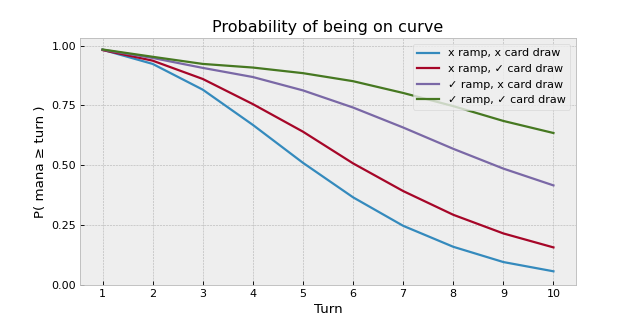
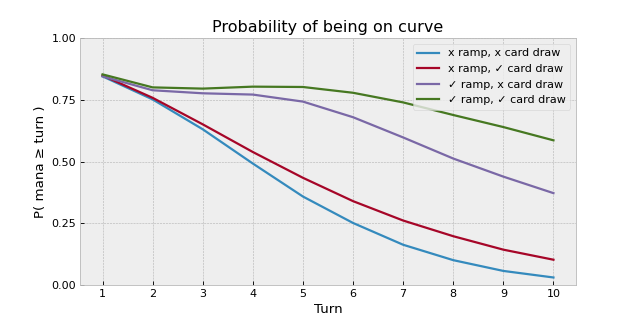
Add new plot

diff --git a/examples/plots/plot4.py b/examples/plots/plot4.py
@@ -39,7 +39,7 @@ for _,deck in decks:
 with plt.style.context("bmh"):
     plt.figure(figsize=(8,4), dpi=80)
     for title,deck in decks:
-        experiment = Experiment(deck=deck, ai=AI.naive, turns=turns[-1], repeats=10000)
+        experiment = Experiment(deck=deck, ai=AI.less_naive, turns=turns[-1], repeats=10000)
         results = list(experiment.evaluate([Metric.on_curve]).values())[0]
         plt.plot(turns, results, label=title)
     plt.legend(loc=1)
@@ -49,4 +49,4 @@ with plt.style.context("bmh"):
     plt.xticks(turns)
     plt.yticks([0.0, 0.25, 0.5, 0.75, 1.0])
     plt.ylim([0, 1])
-    plt.savefig('plot3.png')
+    plt.savefig('plot4.png')
